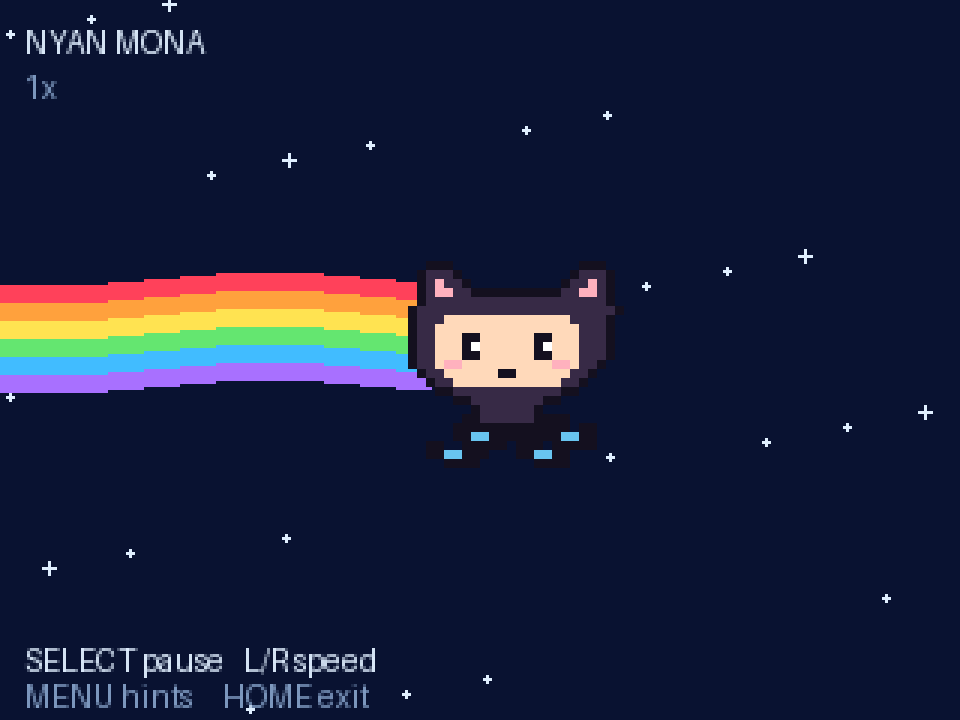
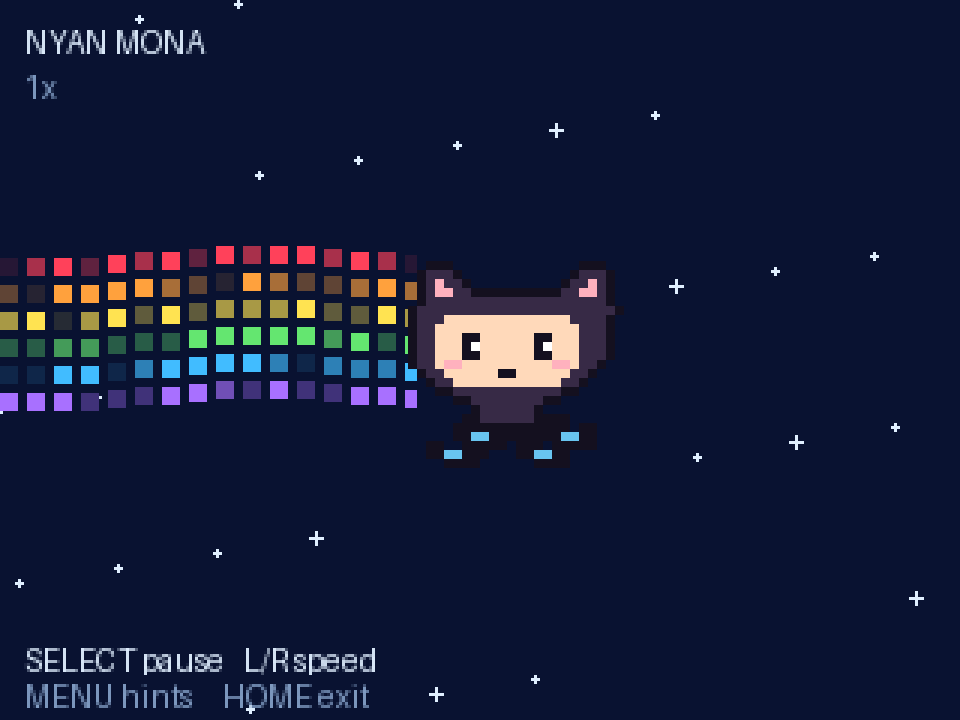
Render rainbow trail as contribution squares

diff --git a/nyan_mona/__init__.py b/nyan_mona/__init__.py
@@ -16,9 +16,14 @@ PALETTE = {
     "T": color.rgb(255, 217, 186),
     "B": color.rgb(104, 196, 240),
 }
-RAINBOW = tuple(color.rgb(*rgb) for rgb in (
+RAINBOW_RGB = (
     (255, 65, 90), (255, 161, 61), (255, 227, 81),
-    (100, 230, 112), (65, 188, 255), (168, 112, 255)))
+    (100, 230, 112), (65, 188, 255), (168, 112, 255))
+# Contribution levels are tinted toward the starfield, keeping every row's hue.
+RAINBOW = tuple(tuple(color.rgb(*(
+    bg + (channel - bg) * level // 100
+    for channel, bg in zip(rgb, (9, 18, 49))))
+    for level in (12, 35, 65, 100)) for rgb in RAINBOW_RGB)
 BACKGROUND = color.rgb(9, 18, 49)
 WHITE = color.rgb(224, 239, 255)
 DIM = color.rgb(130, 158, 197)
@@ -88,6 +93,26 @@ def mona(x, y, scale, frame):
         pixel(px, py, width, 1, pen)
 
 
+def rainbow_trail(x, y, scale, time):
+    cell = 2 * scale
+    pitch = 3 * scale
+    travel = time * 24 * scale
+    first_column = int(travel // pitch)
+    offset = int(travel % pitch)
+    end = x + 5 * scale
+    for column in range((end + offset) // pitch + 1):
+        rx = column * pitch - offset
+        wave = int(math.sin((rx - x) / (8.0 * scale) + time * 12) * scale)
+        # A cell keeps its activity level as it scrolls away from Mona.
+        world_column = first_column + column
+        for row, levels in enumerate(RAINBOW):
+            activity = ((world_column * 37 + row * 67)
+                        ^ (world_column * 13 + row * 31) >> 2) % 11
+            level = 0 if activity == 0 else 1 if activity < 4 else 2 if activity < 7 else 3
+            block(rx, y + (row * 3 - 1) * scale + wave,
+                  min(cell, end - rx), cell, levels[level])
+
+
 def update():
     global elapsed, speed_index, paused, show_controls
     if badge.pressed(BUTTON_SELECT):
@@ -116,11 +141,7 @@ def update():
         block(sx - radius, sy, radius * 2 + 1, 1, WHITE)
         block(sx, sy - radius, 1, radius * 2 + 1, WHITE)
 
-    # Waves move away from Mona, making a continuous rainbow exhaust.
-    for rx in range(0, x + 5 * scale, 4 * scale):
-        wave = int(math.sin((rx - x) / (8.0 * scale) + elapsed * 12) * scale)
-        for stripe, pen in enumerate(RAINBOW):
-            block(rx, y + (2 + stripe * 2) * scale + wave, 4 * scale, 2 * scale, pen)
+    rainbow_trail(x, y, scale, elapsed)
     mona(x, y, scale, frame)
 
     screen.pen = WHITE

diff --git a/README.md b/README.md
@@ -2,7 +2,7 @@
 
 ![Nyan Mona animation](docs/preview.gif)
 
-A self-contained pixel animation for the **Universe 2026 MonaOS runtime** linked from https://badger.github.io/. Includes an original pixel-art interpretation of GitHub’s Mona the Octocat with flexing tentacles, wavy rainbow, parallax stars, pause, and five speeds. No downloads, Wi-Fi, or audio required.
+A self-contained pixel animation for the **Universe 2026 MonaOS runtime** linked from https://badger.github.io/. Includes an original pixel-art interpretation of GitHub’s Mona the Octocat with flexing tentacles, a wavy rainbow trail of GitHub contribution squares, parallax stars, pause, and five speeds. The squares scroll with varied activity brightness in six rainbow rows. No downloads, Wi-Fi, or audio required.
 
 ## Install
 

diff --git a/nyan_mona/README.md b/nyan_mona/README.md
@@ -1,0 +1,21 @@
+# Nyan Mona
+
+Nyan Mona is a pixel animation of Mona the Octocat flying through stars with a rainbow trail of GitHub contribution squares.
+
+Requires a Badger 2350 running the Universe 2026 MonaOS runtime. No Wi-Fi,
+downloads, audio, or credentials are needed.
+
+## Controls
+
+- SELECT: pause or resume.
+- LEFT / RIGHT: choose 0.5x, 1x, 1.5x, 2x, or 3x speed.
+- MENU: hide or show control hints.
+- HOME: return to MonaOS.
+
+## Install
+
+Copy this entire `nyan_mona` folder, including `__init__.py` and `icon.png`,
+into the writable `apps` folder on the BADGER disk in USB Disk Mode. Safely
+eject the disk, restart the badge, and open Nyan Mona from the menu.
+
+This is an unofficial fan-made animation, not an official GitHub asset.
